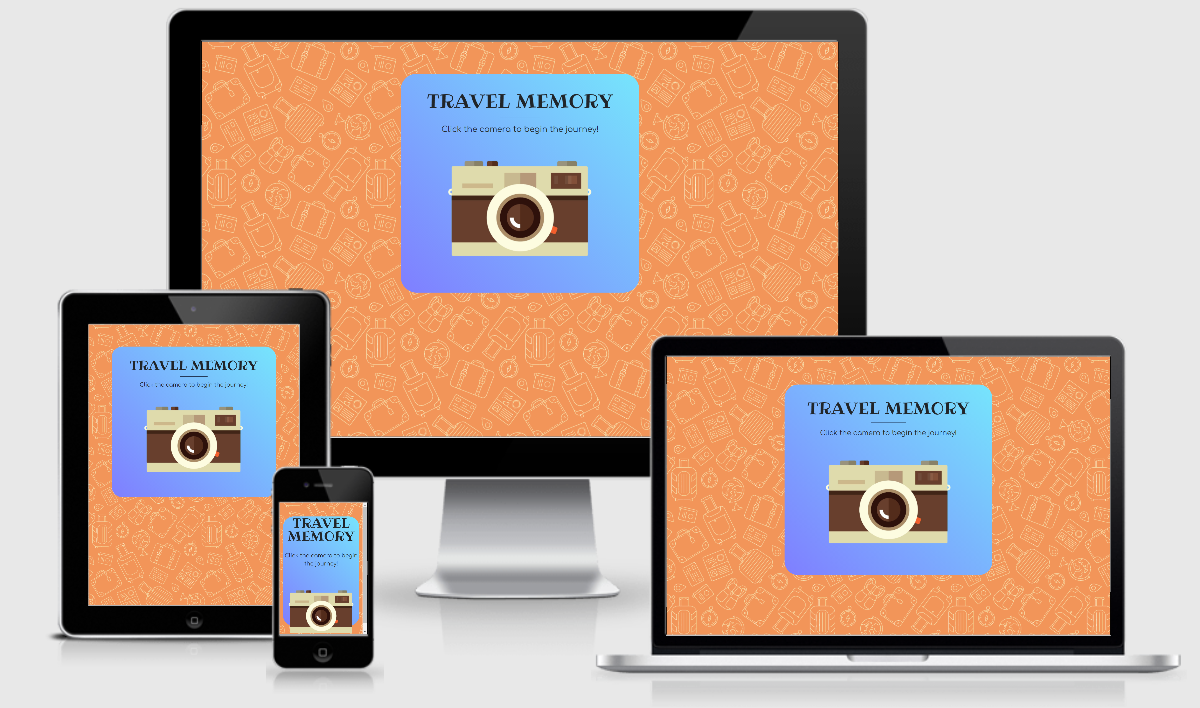
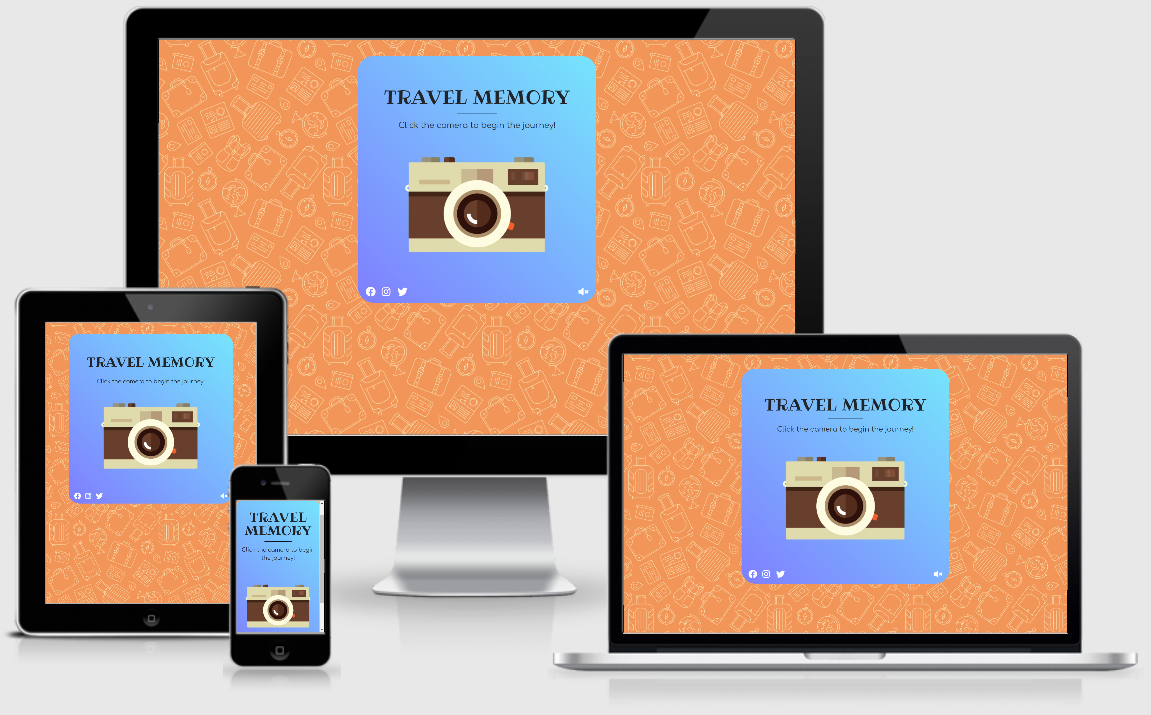
Improved readme with user stories

diff --git a/README.md b/README.md
@@ -21,24 +21,50 @@ The site's primary goal is to entertain the visitors and inspire them visiting m
   - #### First Time Visitor Goals
 
     1. As a First Time Visitor, I want to learn how to play quickly.
+      1. Upon entering the site, users are asked to press the camera image in the title screen and read the instructions.
+      2. The game start easily and become more challenging after the first level. 
+    
     2. As a First Time Visitor, I want to understand how long is the game.
+      1. In the instruction pane it is clear that the game has six levels in total.
+      2. In the top part there is a intuitive progress bar that indicates the current level.
+      3. In the mobile version the progress bar is replace with a paragraph stating the current level and the total number of levels.
+
     3. As a First Time Visitor, I want to try to turn on the music.
+      1. In the lower part there is the audio button to toggle music on/off.
+      2. The user can switch the music on/off anytime during the game or in the title screen.
 
   - #### Returning Visitor Goals
 
     1. As a Returning Visitor, I want to improve my score.
+      1. When the user make a mistake or beat level six the game is over and show the user his score from 0 to 100%.
+      2. The user can play again to make a better score.
+      3. If the score is less than 30% the user will get a bronze cup, more than 30% is a silver cup and 100% is a gold cup.
+
     2. As a Returning Visitor, I want to send my results via mail or send to friends to show them.
+      1. At the end of the game the user can insert an email address in a form to automatically send an email stating his result.
+      2. The user can insert the proper email address to save his result or another to share with other people.
+
     3. As a Returning Visitor, I want to find community links.
+      1. At the bottom of the screen there are the community links to visit easily the social pages.
 
   - #### Frequent User Goals
     1. As a Frequent User, I want to periodically test my memory.
+      1. The user can test his memory periodically and see if there are improvements over time.
+
     2. As a Frequent User, I want to being inspired by the setting and choose a location for my next trip.
+      1. The game provide a variety of different pictures of real world landmark.
+      2. The user can be inspired by the different places and choose one of those for the next trip.
+
     3. As a Frequent User, I want to challenge friends to see who has a better visual memory.
+      1. The user can share the website with friend to challenge from the distance and see who is better.
+      2. The user can play with friends also with just one computer in the same place, there's no need to be in different places.
+
 
 - ### Design
 
-  - #### Colour Scheme
-    
+  - #### Colour Scheme    
+    - The palette has been generated with [Coolors](https://coolors.co/)
+
     <h2 align="center"><img src="assets/doc/palette.png"></h2>
 
     - English Red: #a64253
@@ -50,11 +76,13 @@ The site's primary goal is to entertain the visitors and inspire them visiting m
     - White: #ffffff
 
   - #### Typography
-    - The Source Sans Pro font is the main font used throughout the whole website, with Sans Serif as the fallback font in a case for any reason the font isn't being imported into the site correctly.
-    - Raleway is a clean font used for headings.
+
+    - "Comfortaa" is the main font used throughout the whole website, with Sans Serif as the fallback font in a case for any reason the font isn't being imported into the site correctly.
+    
+    - "Ribeye" is a clean font used for headings.
 
   - #### Imagery
-    - Imagery is important. The large background hero image is a real picture taken during a concert and is designed to be striking and catch the user's attention. It also has a modern, energetic aesthetic.
+    - Imagery is important. The game is in flat design. The images are without borders and the image under the title is designed to be striking and catch the user's attention. It also has a modern, energetic aesthetic.
 
 * ### Wireframes
 
@@ -65,10 +93,13 @@ The site's primary goal is to entertain the visitors and inspire them visiting m
 ## Features
 
 - Responsive on all device sizes
-- Interactive album covers
-- Subscribe button with pop-up form
-- Interactive video
-- Contact form
+- Interactive audio control
+- Six levels to play
+- Buttons and modal used to choose game options
+- Progress bar
+- Score system
+- Three possible rewards
+- Send result via mail
 
 ### Navbar
 - The navbar has a little animation on loading. In small screens is collapsed.
@@ -101,27 +132,30 @@ The site's primary goal is to entertain the visitors and inspire them visiting m
 
 - [HTML5](https://en.wikipedia.org/wiki/HTML5)
 - [CSS3](https://en.wikipedia.org/wiki/Cascading_Style_Sheets)
+- [JavaScript](https://en.wikipedia.org/wiki/JavaScript)
 
 ### Frameworks, Libraries & Programs Used
 
 1. [Bootstrap 4.1.3:](https://getbootstrap.com/docs/4.0/getting-started/introduction/)
    - Bootstrap was used to assist with the responsiveness and styling of the website.
 2. [Google Fonts:](https://fonts.google.com/)
-   - Google fonts were used to import the "Raleway" and "Source Sans Pro" font which is used on all pages throughout the project.
+   - Google fonts were used throughout the project.
 3. [Font Awesome:](https://fontawesome.com/)
    - Font Awesome was used on all pages throughout the website to add icons for aesthetic and UX purposes.
 4. [jQuery:](https://jquery.com/)
-   - jQuery came with Bootstrap to make the navbar responsive but was also used for the smooth scroll function in JavaScript.
+   - jQuery was used to control the audio, the animations and throughout the game code.
 5. [Git](https://git-scm.com/)
    - Git was used for version control.
 6. [GitHub:](https://github.com/)
    - GitHub is used to store the projects code after being pushed from Git.
 7. [Paint.net:](https://www.getpaint.net/)
-   - Paint.net was used to create the logo, resizing images and editing photos for the website.
+   - Paint.net was used to edit the game graphics and background.
 8. [Balsamiq:](https://balsamiq.com/)
-   - Balsamiq was used to create the [wireframes](assets/doc/home.pdf) during the design process.
+   - Balsamiq was used to create the during the design process.
 9. [Visual Studio Code:](https://code.visualstudio.com/)
    - Visual Studio Code was used to write code, commit to Git and Push to GitHub.
+10. [EmailJS:](https://www.emailjs.com/)
+   - EmailJS was used to send mails to players with their result.
 
 ## Testing
 
@@ -269,22 +303,18 @@ Click [Here](https://help.github.com/en/github/creating-cloning-and-archiving-re
 ### Code
 
 - [Bootstrap 4.1.3](https://getbootstrap.com/docs/4.0/getting-started/introduction/): Bootstrap Library used throughout the project mainly to make site responsive using the Bootstrap Grid System.
-- Code for navbar animation taken from [Wrapbootstrap](https://wrapbootstrap.com/)
-- Code for buttons taken from [Wrapbootstrap](https://wrapbootstrap.com/)
-- Code for album animation taken from [Wrapbootstrap](https://wrapbootstrap.com/)
-- Code for merch masks taken from [Wrapbootstrap](https://wrapbootstrap.com/)
 - Code for modal taken from [Getbootstrap](https://getbootstrap.com/docs/4.0/components/modal/)
 
 ### Content
 
 - All content was written by the developer.
-
 - Psychological properties of colours text in the README.md was found [here](http://www.colour-affects.co.uk/psychological-properties-of-colours)
 
 ### Media
 
-- All Images were created by the developer.
-- Photos given by Tommaso of Fiore Nero.
+- Background Music: Folk Acoustic by [MaxKoMusic](https://maxkomusic.com/)
+- Pictures and background: [Pixabay](https://pixabay.com/)
+- Editing is made by the developer.
 
 ### Acknowledgements
 
